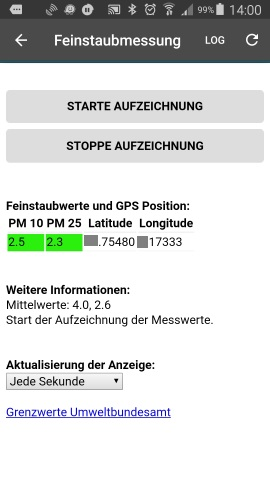
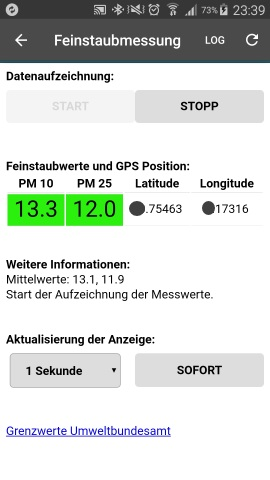
- Verbesserung UX - Android: Fehlermeldungen im GUI anzeigen - Android: Access-Log unterdruecken - Falsches Gruen bei Werten groesser 2000 korrigiert - Werte immer mit einer Nachkommastelle ausgeben - Refresh-Button wieder aktiviert

diff --git a/templates/android_index.html b/templates/android_index.html
@@ -44,8 +44,15 @@
     });
     startPeriodicRefresh(1);
  
+    $("#refreshBtn").click(function() {
+         refreshStatus();     
+    });
+
     $("#startBtn").click(function() {
-         $.ajax({
+        $(this).prop('disabled', true);
+        $("#stoppBtn").prop('disabled', false);
+
+        $.ajax({
             type: "GET",
             url: $SCRIPT_ROOT + "/start/",
             contentType: "application/json; charset=utf-8",
@@ -57,7 +64,10 @@
         });     
     });
     $("#stoppBtn").click(function() {
-         $.ajax({
+        $(this).prop('disabled', true);
+        $("#startBtn").prop('disabled', false);
+        
+        $.ajax({
             type: "GET",
             url: $SCRIPT_ROOT + "/stopp/",
             contentType: "application/json; charset=utf-8",
@@ -68,16 +78,19 @@
             }
         });     
     });
+    $("#stoppBtn").prop('disabled', true);
   });
 </script>
-<br />
-<button class="ui-btn ui-corner-all" type='button' id='startBtn' name='startBtn'>STARTE AUFZEICHNUNG</button>
-<button class="ui-btn ui-corner-all" type='button' id='stoppBtn' name='stoppBtn'>STOPPE AUFZEICHNUNG</button>
+<strong>Datenaufzeichnung:</strong><br />
+<div class="ui-grid-a">
+    <div class="ui-block-a"><button class="ui-btn ui-corner-all" type='button' id='startBtn' name='startBtn'>START</button></div>
+    <div class="ui-block-b"><button class="ui-btn ui-corner-all" type='button' id='stoppBtn' name='stoppBtn'>STOPP</button></div>
+</div>
 <br />
 <br />
 <strong>Feinstaubwerte und GPS Position:</strong><br />
 
-<table data-role="table" id="table-column-toggle" data-mode="columntoggle" class="ui-responsive table-stroke">
+<table data-role="table" id="table-column-toggle" data-mode="columntoggle" class="ui-responsive table-stroke" style="width: 100%">
      <thead>
        <tr>
          <th>PM 10</th>
@@ -88,10 +101,10 @@
      </thead>
      <tbody>
        <tr>
-         <td id='echopm_10'></td>
-         <td id='echopm_25'></td>
-         <td id='echolat'></td>
-         <td id='echolon'></td>
+         <td id="echopm_10" align="center" style="font-size: 30px"></td>
+         <td id="echopm_25" align="center" style="font-size: 30px"></td>
+         <td id="echolat" align="center"></td>
+         <td id="echolon" align="center"></td>
        </tr>
 	 </tbody>
 </table>
@@ -104,12 +117,19 @@
 <br />
 <br />
 <strong>Aktualisierung der Anzeige:</strong><br />
-<select id="refreshRate" data-native-menu="false">
-    <option value="1">Jede Sekunde</option>
-    <option value="5">Alle fünf Sekunden</option>
-    <option value="30">Alle 30 Sekunden</option>
-    <option value="300">Alle fünf Minuten</option>
-</select>
+<div class="ui-grid-a">
+    <div class="ui-block-a">
+        <select class="ui-btn ui-corner-all" id="refreshRate" data-native-menu="false">
+            <option value="1">1 Sekunde</option>
+            <option value="5">5 Sekunden</option>
+            <option value="30">30 Sekunden</option>
+            <option value="300">5 Minuten</option>
+        </select>
+    </div>
+    <div class="ui-block-b">
+        <button class="ui-btn ui-corner-all" type='button' id='refreshBtn'>SOFORT</button>
+    </div>
+</div>
 <br/>
 <br/>
 <a href="https://www.umweltbundesamt.de/themen/luft/luftschadstoffe/feinstaub">Grenzwerte Umweltbundesamt</a>

diff --git a/templates/index.html b/templates/index.html
@@ -30,7 +30,6 @@
   };
 
   function startPeriodicRefresh(seconds) {
-    console.log("Seconds: " + seconds)
     if (refreshTimer)
         clearTimeout(refreshTimer);
     
@@ -44,9 +43,16 @@
         startPeriodicRefresh($('#refreshRate').val());
     });
     startPeriodicRefresh(1);
+ 
+    $("#refreshBtn").click(function() {
+         refreshStatus();     
+    });
 
     $("#startBtn").click(function() {
-         $.ajax({
+        $(this).prop('disabled', true);
+        $("#stoppBtn").prop('disabled', false);
+
+        $.ajax({
             type: "GET",
             url: $SCRIPT_ROOT + "/start/",
             contentType: "application/json; charset=utf-8",
@@ -58,7 +64,10 @@
         });     
     });
     $("#stoppBtn").click(function() {
-         $.ajax({
+        $(this).prop('disabled', true);
+        $("#startBtn").prop('disabled', false);
+        
+        $.ajax({
             type: "GET",
             url: $SCRIPT_ROOT + "/stopp/",
             contentType: "application/json; charset=utf-8",
@@ -69,6 +78,8 @@
             }
         });     
     });
+    $("#stoppBtn").prop('disabled', true);
+
     $("#haltBtn").click(function() {
          $.ajax({
             type: "GET",
@@ -120,10 +131,10 @@
      </thead>
      <tbody>
        <tr>
-         <td id='echopm_10'></td>
-         <td id='echopm_25'></td>
-         <td id='echolat'></td>
-         <td id='echolon'></td>
+          <td id="echopm_10" align="center" style="font-size: 30px"></td>
+          <td id="echopm_25" align="center" style="font-size: 30px"></td>
+          <td id="echolat" align="center"></td>
+          <td id="echolon" align="center"></td>
        </tr>
 	 </tbody>
 </table>
@@ -136,12 +147,19 @@
 <div id='echoResult'></div>
 <br />
 <br />
-<strong>Aktualsierung der Anzeige:</strong><br />
-<select id="refreshRate" data-native-menu="false">
-    <option value="1">Jede Sekunde</option>
-    <option value="5">Alle fünf Sekunden</option>
-    <option value="30">Alle 30 Sekunden</option>
-    <option value="300">Alle fünf Minuten</option>
-</select>
+<strong>Aktualisierung der Anzeige:</strong><br />
+<div class="ui-grid-a">
+    <div class="ui-block-a">
+        <select class="ui-btn ui-corner-all" id="refreshRate" data-native-menu="false">
+            <option value="1">1 Sekunde</option>
+            <option value="5">5 Sekunden</option>
+            <option value="30">30 Sekunden</option>
+            <option value="300">5 Minuten</option>
+        </select>
+    </div>
+    <div class="ui-block-b">
+        <button class="ui-btn ui-corner-all" type='button' id='refreshBtn'>SOFORT</button>
+    </div>
+</div>
 <a href="https://www.umweltbundesamt.de/themen/luft/luftschadstoffe/feinstaub">Grenzwerte Umweltbundesamt</a>
 {% endblock %}

diff --git a/web_feinstaub.py b/web_feinstaub.py
@@ -5,7 +5,7 @@
 # coding: latin-1
 # Autor:   Ingmar Stapel, Android-Portierung durch https://github.com/optiprime
 # Datum:   20171231
-# Version:   1.1/android-1.0
+# Version:   1.1/android-1.2
 # Homepage:   https://www.byteyourlife.com/
 # Dieses Programm ermoeglicht es einen mobilen Feinstaubsensor
 # auf Basis eines Raspberry Pi Computers zu bauen.
@@ -64,11 +64,15 @@ if android_platform:
 	import select
 	import androidhelper
 	import base64
+	import logging
 else:
 	import serial
 	from gps import *
 
 app = Flask(__name__)
+if android_platform:
+	log = logging.getLogger('werkzeug')
+	log.setLevel(logging.ERROR)
 
 global session
 session = None
@@ -116,9 +120,8 @@ def write_log(msg):
 
 # Hier wird die Farbe fuer die Linie festgelegt.
 def color_selection(value):
-	# red
-	color = "#64009614"	
-	if 50 <= value <= 2000:
+	# red	
+	if 50 <= value:
 		color = "#641400F0"
 	# orange
 	elif 25 <= value <= 49:
@@ -131,9 +134,8 @@ def color_selection(value):
 
 # und hier fuer die Darstellung im Frontend 
 def color_selection_rgb(value):
-	# red
-	color = "#149600"	
-	if 50 <= value <= 2000:
+	# red	
+	if 50 <= value:
 		color = "#F00014"
 	# orange
 	elif 25 <= value <= 49:
@@ -332,6 +334,8 @@ class SDS001StreamReader(threading.Thread):
 				pm_10 = round(readings[1]/10.0, 3)
 	
 	def getBluetoothData(self, size):
+		global error_msg
+
 		ssp_uuid = '00001101-0000-1000-8000-00805F9B34FB'
 
 		buffer = ''
@@ -341,7 +345,7 @@ class SDS001StreamReader(threading.Thread):
 					self.droid.bluetoothStop(self.connID)
 					self.connID = None
 				
-				print ("Connecting/Reconnecting..."	)
+				print("Connecting/Reconnecting...")
 				sys.stdout.flush()
 				self.droid.toggleBluetoothState(True,False)
 				success = self.droid.bluetoothConnect(ssp_uuid, sds011_bluetooth_device_id)
@@ -350,7 +354,8 @@ class SDS001StreamReader(threading.Thread):
 					print("Connected")
 					sys.stdout.flush()
 				else:
-					print("Connection problem")
+					error_msg = "Problem beim Verbinden mit Feinstaubsensor!"
+					print(error_msg)
 					sys.stdout.flush()
 					time.sleep(1)
 
@@ -363,6 +368,8 @@ class SDS001StreamReader(threading.Thread):
 				sys.stdout.flush()
 				time.sleep(1)
 
+		error_msg = ""
+		
 		return buffer
 			
 def start_sensor():
@@ -494,7 +501,8 @@ def status():
 	display_lat = "%.5f" % float(g_lat)
 	display_lon = "%.5f" % float(g_lng)
 	ret_data = {"value": status_text, "lat": display_lat, "lon": display_lon,
-		"pm_10": pm_10, "pm_10_color": color_selection_rgb(pm_10), "pm_25": pm_25, "pm_25_color": color_selection_rgb(pm_25),
+		"pm_10": "%6.1f" % pm_10, "pm_10_color": color_selection_rgb(pm_10),
+		"pm_25": "%6.1f" % pm_25, "pm_25_color": color_selection_rgb(pm_25),
 		"error_msg": error_msg}
 	return jsonify(ret_data)
 	
